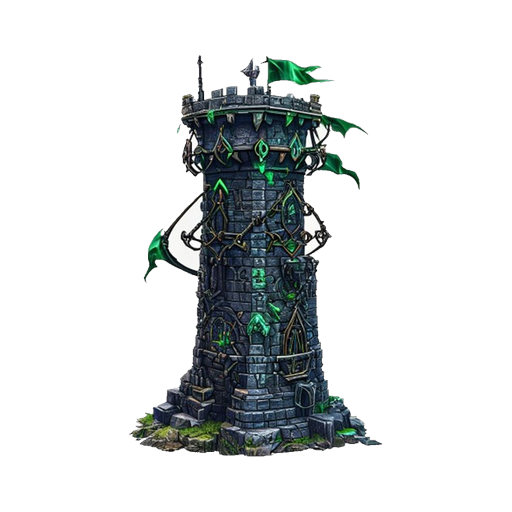
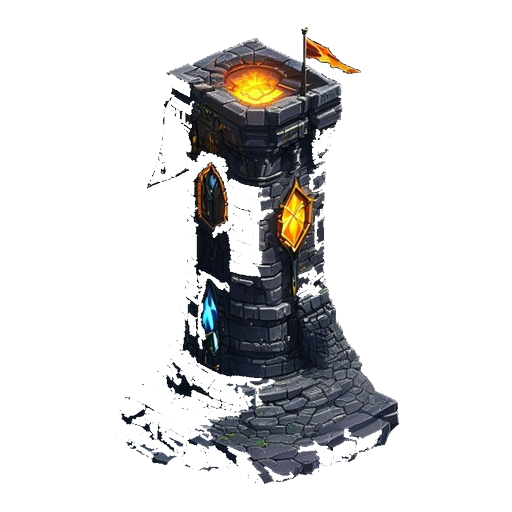
feat: ป้อมสไนเปอร์/ซัพพอร์ตเข้าชุดสไตล์ + มอนสเตอร์ไหวตอนวางเฉยๆ (v3.25.4)
ตรวจสอบความสอดคล้องของสไตล์ภาพในเกม พบว่าป้อมสไนเปอร์และซัพพอร์ตหลุดโทนจากป้อมอื่น
(สไนเปอร์เรียบง่ายกว่ามาก, ซัพพอร์ตธีมไม้เลื้อยต่างจากธีม "หิน+คริสตัลเรืองแสง" ของป้อมอื่น)
เจนใหม่ทั้งสองป้อมทุกขั้นดาว (16 ไฟล์) ให้เข้าชุดกัน

เพิ่ม idle glow-pulse ให้มอนสเตอร์ทุกตัว (19 ไฟล์ _g2) แบบเดียวกับที่ทำให้ป้อมไปแล้ว

Changed region(s): [[0.2188, 0.0625, 0.7812, 0.9688], [0.6875, 0.3438, 0.7188, 0.375], [0.2812, 0.3438, 0.3125, 0.375]]

diff --git a/Tower Quest 🏰.html b/Tower Quest 🏰.html
@@ -3,7 +3,7 @@
 
 <meta name="viewport" content="width=device-width, initial-scale=1.0, maximum-scale=1.0, user-scalable=no">
 <title>Tower Quest 🏰</title>
-<link rel="stylesheet" href="css/main.css?v=3.25.3">
+<link rel="stylesheet" href="css/main.css?v=3.25.4">
 </head>
 <body>
 
@@ -56,9 +56,9 @@
   <div id="menuSettingsBtn" onclick="openSettings()" style="position:absolute;top:136px;left:14px;z-index:10;background:rgba(255,255,255,.06);border:1px solid rgba(255,255,255,.15);color:rgba(200,200,200,.7);font-size:10px;padding:5px 12px;border-radius:50px;cursor:pointer;">⚙ ตั้งค่า</div>
 
   <!-- logo -->
-  <img class="mm-emblem" id="logoIsland" src="assets/images/logo.png?v=3.25.3" alt="Tower Quest">
+  <img class="mm-emblem" id="logoIsland" src="assets/images/logo.png?v=3.25.4" alt="Tower Quest">
   <div class="gsub">⚔ ปกป้องอาณาจักรของคุณ!</div>
-  <div id="verBtn" style="font-size:10px;color:rgba(255,224,130,.45);letter-spacing:1px;margin-top:-18px;margin-bottom:18px;cursor:pointer;">📰 v3.25.3 — มีอะไรใหม่<span id="newsBadge" class="news-badge" style="display:none;"></span></div>
+  <div id="verBtn" style="font-size:10px;color:rgba(255,224,130,.45);letter-spacing:1px;margin-top:-18px;margin-bottom:18px;cursor:pointer;">📰 v3.25.4 — มีอะไรใหม่<span id="newsBadge" class="news-badge" style="display:none;"></span></div>
 
   <!-- battle buttons -->
   <button class="bbattle" id="startBtn">⚔ โหมดเนื้อเรื่อง</button>
@@ -562,7 +562,7 @@
             <span class="ws-flip-btn">คราฟ ▶</span>
             <div class="ws-card-art">
               <span class="ws-card-rank">✦9</span>
-              <img src="assets/images/tower_void.png?v=3.25.3" alt="">
+              <img src="assets/images/tower_void.png?v=3.25.4" alt="">
             </div>
             <div class="ws-card-name">ป้อมมนตราโมฆะ</div>
             <div class="ws-card-tag">ปลดล็อกได้ที่เวิร์กชอปเท่านั้น</div>
@@ -600,7 +600,7 @@
             <span class="ws-flip-btn">คราฟ ▶</span>
             <div class="ws-card-art">
               <span class="ws-card-rank">✦10</span>
-              <img src="assets/images/tower_time.png?v=3.25.3" alt="">
+              <img src="assets/images/tower_time.png?v=3.25.4" alt="">
             </div>
             <div class="ws-card-name">ป้อมกาลเวลา</div>
             <div class="ws-card-tag">คราฟหรือรับจากกาชา Legendary</div>
@@ -923,15 +923,15 @@
     <button class="obtn" onclick="closeSettings()">✔ ปิด</button>
   </div>
 </div>
-<script src="js/cloud-save.js?v=3.25.3"></script>
-<script src="js/save.js?v=3.25.3"></script>
-<script src="js/enemy.js?v=3.25.3"></script>
-<script src="js/tower.js?v=3.25.3"></script>
-<script src="js/game.js?v=3.25.3"></script>
-<script src="js/ui-data.js?v=3.25.3"></script>
-<script src="js/ui-profile.js?v=3.25.3"></script>
-<script src="js/ui-casino.js?v=3.25.3"></script>
-<script src="js/ui.js?v=3.25.3"></script>
+<script src="js/cloud-save.js?v=3.25.4"></script>
+<script src="js/save.js?v=3.25.4"></script>
+<script src="js/enemy.js?v=3.25.4"></script>
+<script src="js/tower.js?v=3.25.4"></script>
+<script src="js/game.js?v=3.25.4"></script>
+<script src="js/ui-data.js?v=3.25.4"></script>
+<script src="js/ui-profile.js?v=3.25.4"></script>
+<script src="js/ui-casino.js?v=3.25.4"></script>
+<script src="js/ui.js?v=3.25.4"></script>
 
 
 </body></html>

diff --git a/js/ui-data.js b/js/ui-data.js
@@ -1,6 +1,10 @@
 /* ══ WHAT'S NEW (patch notes) ══ */
-const GAME_VERSION='3.25.3';
+const GAME_VERSION='3.25.4';
 const PATCH_NOTES=[
+  {ver:'3.25.4',date:'2026-07-04',title:'🎨 ป้อมสไนเปอร์/ซัพพอร์ตปรับสไตล์ให้เข้าชุด + มอนสเตอร์ไหวตอนวางเฉยๆ',notes:[
+    'ป้อมสไนเปอร์และซัพพอร์ตทำภาพใหม่ทุกขั้นดาว ให้เข้าชุดสไตล์กับป้อมอื่นๆ มากขึ้น',
+    'มอนสเตอร์ทุกตัวมีจุดเรืองแสง/ดวงตาสว่างวูบวาบเบาๆ ระหว่างเดิน เหมือนป้อมที่ทำไปก่อนหน้า',
+  ]},
   {ver:'3.25.3',date:'2026-07-04',title:'⚖ ปรับขนาดป้อม/มอนสเตอร์ให้พอดีขึ้น',notes:[
     'ป้อมทุกชนิดเล็กลงเล็กน้อยเพื่อไม่ให้ป้อมข้างเคียงทับกัน มองเห็นแต่ละป้อมชัดขึ้น',
     'มอนสเตอร์ทั่วไปเล็กลงเล็กน้อย ส่วนบอสทุกตัวยังคงขนาดใหญ่อลังการเหมือนเดิม',

diff --git a/js/enemy.js b/js/enemy.js
@@ -456,6 +456,22 @@ function _enemyImg(ti){
   }
   return (o&&o._ok)?o:null;
 }
+/* ── idle glow-pulse frame B (enemy_{name}_g2.png), same technique as towers: brighter/more
+   saturated glow highlights only, crossfaded on top of frame A — not an AI regeneration, so the
+   character silhouette stays pixel-identical ── */
+const _eimgCache2={};
+function _enemyImg2(ti){
+  if(!_ENEMY_IMG_ON) return null;
+  const n=_ESPRITE[ti]; if(!n) return null;
+  let o=_eimgCache2[ti];
+  if(o===undefined){
+    o=new Image(); o._ok=false;
+    o.onload=()=>{o._ok=true;}; o.onerror=()=>{o._ok=false;};
+    o.src='assets/images/'+n+'_g2.png?v='+(typeof GAME_VERSION!=='undefined'?GAME_VERSION:'1');
+    _eimgCache2[ti]=o;
+  }
+  return (o&&o._ok)?o:null;
+}
 function drawEnemySprite(ctx,ti,x,y,sz,mv){
   const r=sz*.42;
   mv=mv||{};
@@ -471,6 +487,13 @@ function drawEnemySprite(ctx,ti,x,y,sz,mv){
     const d=sz*2.25;
     ctx.scale(_fx,1);
     ctx.drawImage(_img,-d/2,-d/2-sz*.12+_bob,d,d);
+    const _img2=_enemyImg2(ti);
+    if(_img2){
+      const _pulse=Math.sin(Date.now()*.0018+ti*1.7)*.5+.5;
+      ctx.globalAlpha=_pulse*.6;
+      ctx.drawImage(_img2,-d/2,-d/2-sz*.12+_bob,d,d);
+      ctx.globalAlpha=1;
+    }
     ctx.restore();
     return;
   }

diff --git a/CHANGELOG.md b/CHANGELOG.md
@@ -2,6 +2,20 @@
 
 All notable changes to Tower Quest 🏰 will be documented in this file.
 
+## v3.25.4 — ป้อมสไนเปอร์/ซัพพอร์ตเข้าชุดสไตล์ + มอนสเตอร์ไหวตอนวางเฉยๆ
+
+### Changed
+- `assets/images/tower_sniper.png`, `tower_support.png` (+ ทุกขั้นดาว s2/s3/s4 และคู่ `_g2.png`, รวม 16
+  ไฟล์): เจนใหม่ทั้งหมด — เดิมสองป้อมนี้หลุดโทนจากป้อมอื่น (สไนเปอร์เรียบง่ายกว่าตัวอื่นมาก, ซัพพอร์ตธีมไม้เลื้อย
+  ต่างจากธีม "หินสะอาด + คริสตัลเรืองแสง" ของป้อมอื่น) ตอนนี้ทั้งคู่ใช้ธีม "หิน + คริสตัลเรืองแสง" เข้าชุดกับ
+  ป้อมอื่นๆ ทั้งหมดแล้ว — รัน `fix_tower_scale.py`/`gen_glow_frames.py` ซ้ำให้ตรงกับภาพใหม่ด้วย
+
+### Added
+- `assets/images/enemy_*_g2.png` (19 ไฟล์ — ทุกมอนสเตอร์): เฟรม B แบบเดียวกับป้อม (boost แสง/สีจุดเรือง
+  แสงจากภาพเดิม ไม่เจนใหม่ผ่าน AI) — `js/enemy.js` `_enemyImg2(ti)` + `drawEnemySprite` crossfade ทับ
+  เฟรม A ด้วย sin-wave ต่อเนื่อง (phase offset ต่อชนิดมอน) ให้มอนสเตอร์มีจุดเรืองแสง/ดวงตาไหวตอนเดิน
+  เหมือนที่ป้อมมีอยู่แล้ว (v3.25.1)
+
 ## v3.25.3 — ปรับขนาดป้อม/มอนสเตอร์ให้พอดีขึ้น
 
 ### Changed

diff --git a/PROJECT_MASTER.md b/PROJECT_MASTER.md
@@ -3,7 +3,7 @@
 This document is a system-by-system map of the game as implemented in
 [`Tower Quest 🏰.html`](Tower%20Quest%20%F0%9F%8F%B0.html) plus its
 `css/main.css` and `js/{save,enemy,tower,game,ui}.js` modules (current
-version **v3.25.3**). Line numbers refer to these files and
+version **v3.25.4**). Line numbers refer to these files and
 may drift as they change — use them as a starting point for searches, not as
 permanent anchors.
 
@@ -781,7 +781,10 @@ unstyled (internal tool only). No gameplay/save changes from any of these.
 - **Hybrid art**: enemies on the play field use raster PNG sprites via
   `drawEnemySprite`'s image path (`_ESPRITE`/`_enemyImg`, `assets/images/
   enemy_*.png`), falling back to procedural canvas if an image fails to load.
-  Towers on the field also use raster sprites via `drawTowerIcon`'s image path
+  Since v3.25.4 enemies also have an idle glow-pulse (`_enemyImg2`, `enemy_
+  {name}_g2.png` — same brighten-existing-highlights technique as towers,
+  crossfaded on top of frame A). Towers on the field also use raster sprites
+  via `drawTowerIcon`'s image path
   (`_TWSPRITE`/`_towerFieldImg` + recoil, no turret rotation), same fallback.
   Since v3.25.0 tower art also evolves by star rank: `_towerFieldImg(type,star)`
   picks `tower_{name}_s{2,3,4}.png` for 2★/3★/4★ (falling back a tier at a

diff --git a/CLAUDE.md b/CLAUDE.md
@@ -5,7 +5,7 @@ Guidance for Claude Code (and other AI assistants) working in this repository.
 ## Project Summary
 
 **Tower Quest 🏰** is a browser-based tower defense game written in
-Thai, currently at **v3.25.3**. Since the v1.6.1 refactor, the game is split
+Thai, currently at **v3.25.4**. Since the v1.6.1 refactor, the game is split
 across:
 
 - [`Tower Quest 🏰.html`](Tower%20Quest%20%F0%9F%8F%B0.html) — head/body
